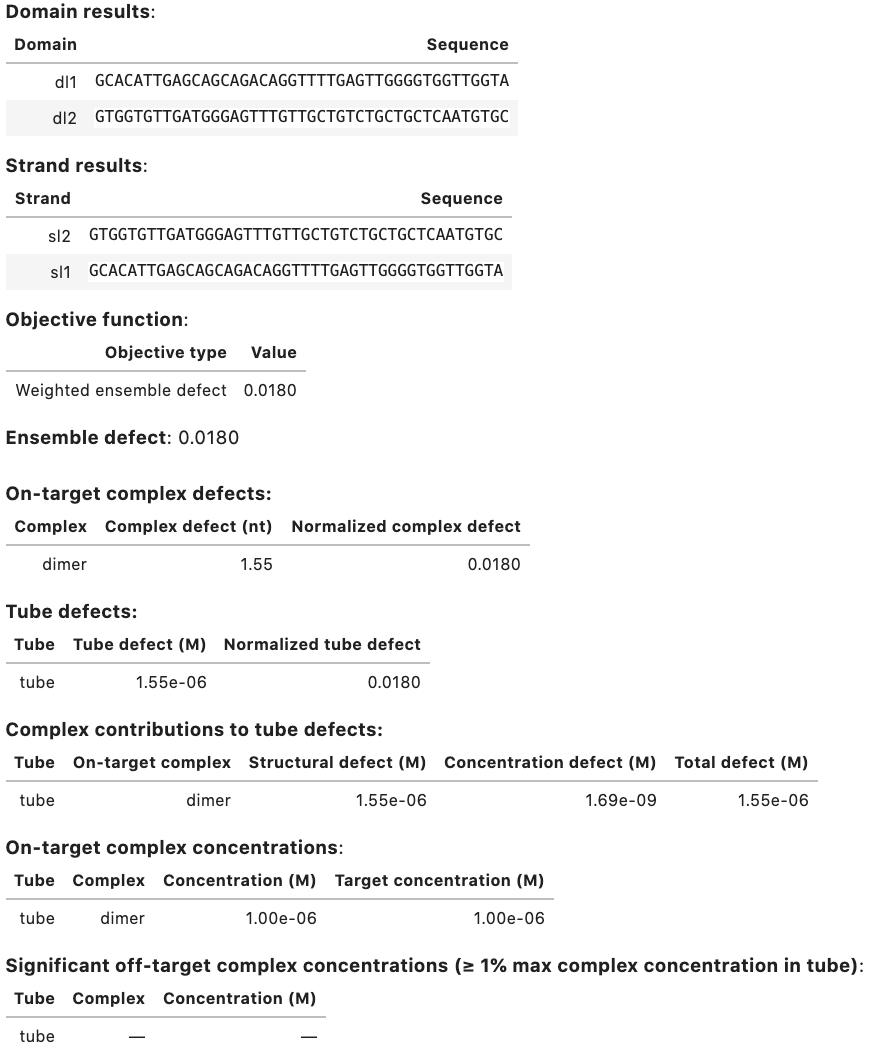
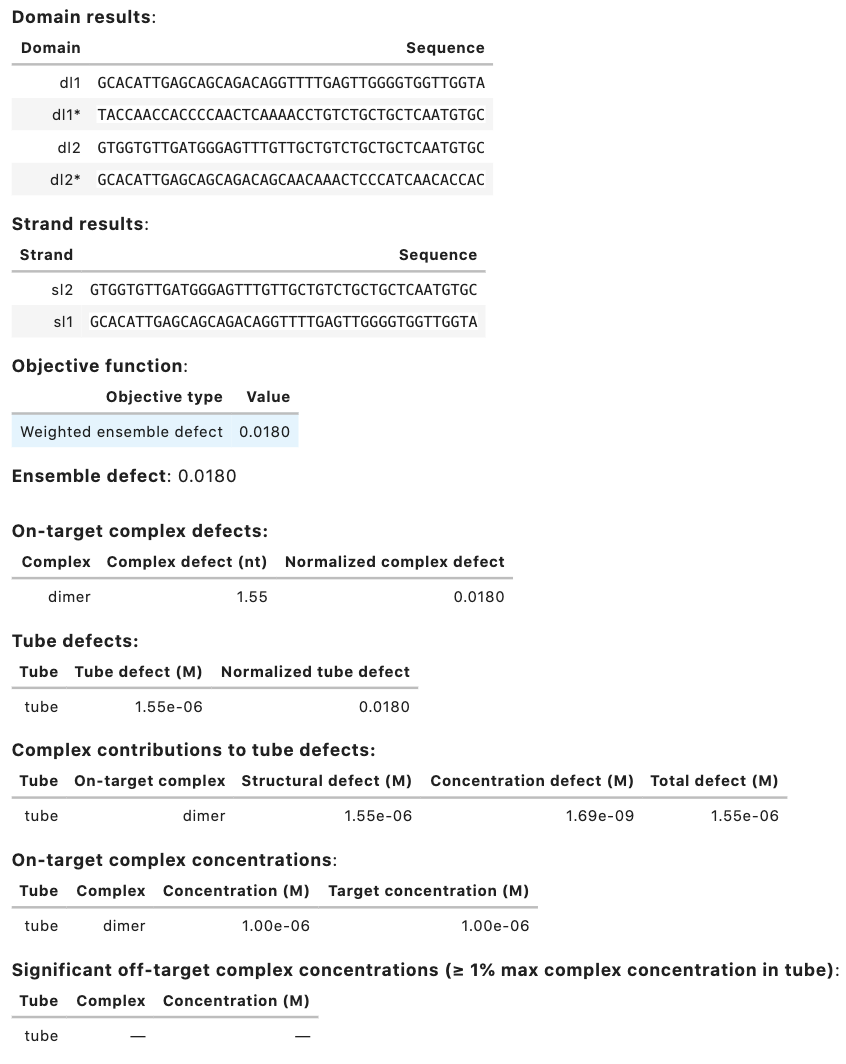
fix citation, add domain complements

Changed region(s): [[0.0, 0.0, 1.0, 0.9925]]

diff --git a/sources/design.md b/sources/design.md
@@ -1,7 +1,7 @@
 
 
 # Design Jobs
-To enable **reaction pathway engineering** of dynamic hybridization cascades (e.g., shape and sequence transduction using small conditional RNAs [@Hochrein13,@Hanewich-Hollatz19]) or large-scale **structural engineering including pseudoknots** (e.g., RNA origamis [@Geary14]), NUPACK sequence design operates on multistate ensembles:
+To enable **reaction pathway engineering** of dynamic hybridization cascades (e.g., shape and sequence transduction using small conditional RNAs [@Hochrein13,@HanewichHollatz19]) or large-scale **structural engineering including pseudoknots** (e.g., RNA origamis [@Geary14]), NUPACK sequence design operates on multistate ensembles:
 
 -  **Multi-complex ensemble:** the ensemble of an arbitrary number of strand species interacting to form an arbitrary number of complex species.
 -  **Multi-tube ensemble:** the ensemble of an arbitrary number of test tubes containing different subsets of an arbitrary number of strand species introduced at user-specified concentrations.
@@ -163,7 +163,7 @@ my_results[0]  # display results table for first design trial
 
 Output:
 
-> <img src="/figs/optimization-output.png" alt="Optimization output" title="Example optimization output" width="650" />
+> <img src="/figs/optimization-output.png" alt="Optimization output" title="Example optimization output" width="620" />
 
 Output table displays:
 
@@ -275,7 +275,7 @@ my_evaluated_result
 
 Output:
 
-> <img src="/figs/evaluation-output.png" alt="Evaluation output" title="Example evaluation output" width="600" />
+> <img src="/figs/evaluation-output.png" alt="Evaluation output" title="Example evaluation output" width="650" />
 
 
 ---
@@ -814,7 +814,7 @@ result
 
 This displays the result object as something like the following:
 
-> <img src="/figs/design-output.png" alt="Design output" title="Example design output" width="750" />
+> <img src="/figs/design-output.png" alt="Design output" title="Example design output" width="600" />
 
 You may also use the `print` function, for output in a raw ASCII form:
 

diff --git a/sources/started.md b/sources/started.md
@@ -16,8 +16,7 @@ For interactive usage, the following packages are recommended:
 - matplotlib
 - jupyterlab
 
-NUPACK 4 Python packages are provided for Mac and Linux operating systems. Windows is currently *not* supported, though we hope to address this in the near future.
-<!-- A possible approach for Windows users is to use NUPACK inside [Docker](#installing-nupack-via-docker). -->
+NUPACK 4 Python packages are provided for Mac and Linux operating systems. Windows is currently *not* supported, though we hope to address this in the future. Windows users may instead to run NUPACK inside [Docker](#installing-nupack-via-docker).
 
 ---
 
@@ -89,20 +88,15 @@ Examples are provided for the following use cases:
 - [Small examples of converting NUPACK 3 input files to NUPACK 4 scripts](https://nbviewer.jupyter.org/github/Piercelab-Caltech/nupack-examples/tree/master/)
 
 ---
-<!--
+
 ## Installing NUPACK via Docker
 
-The downloaded NUPACK 4 source code includes a Dockerfile in `package/python.dockerfile` which will install Miniconda and NUPACK 4 via Arch Linux.
+The downloaded NUPACK 4 source code includes a built Docker image as `nupack-4-docker.zip`.
 
-```bash
-docker build . -f docker/python.dockerfile -t nupack
-```
+!!! Warning
+    Put this information in.
 
-```bash
-
-```
-
---- -->
+---
 
 ## Installing NUPACK from source
 
